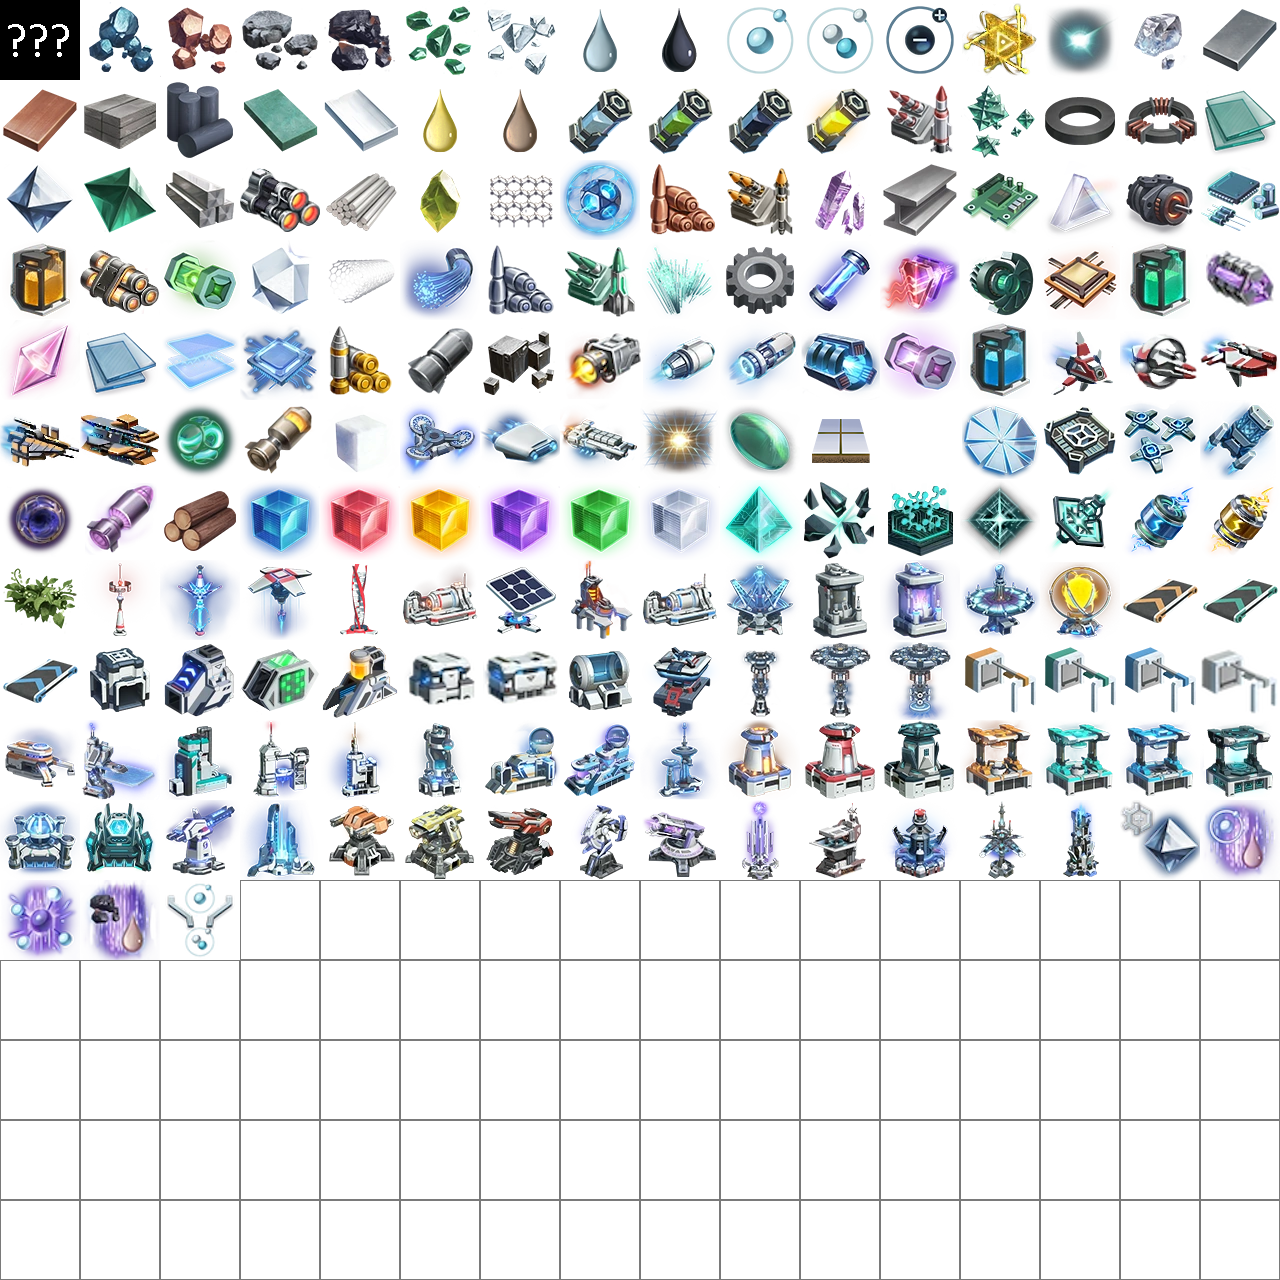
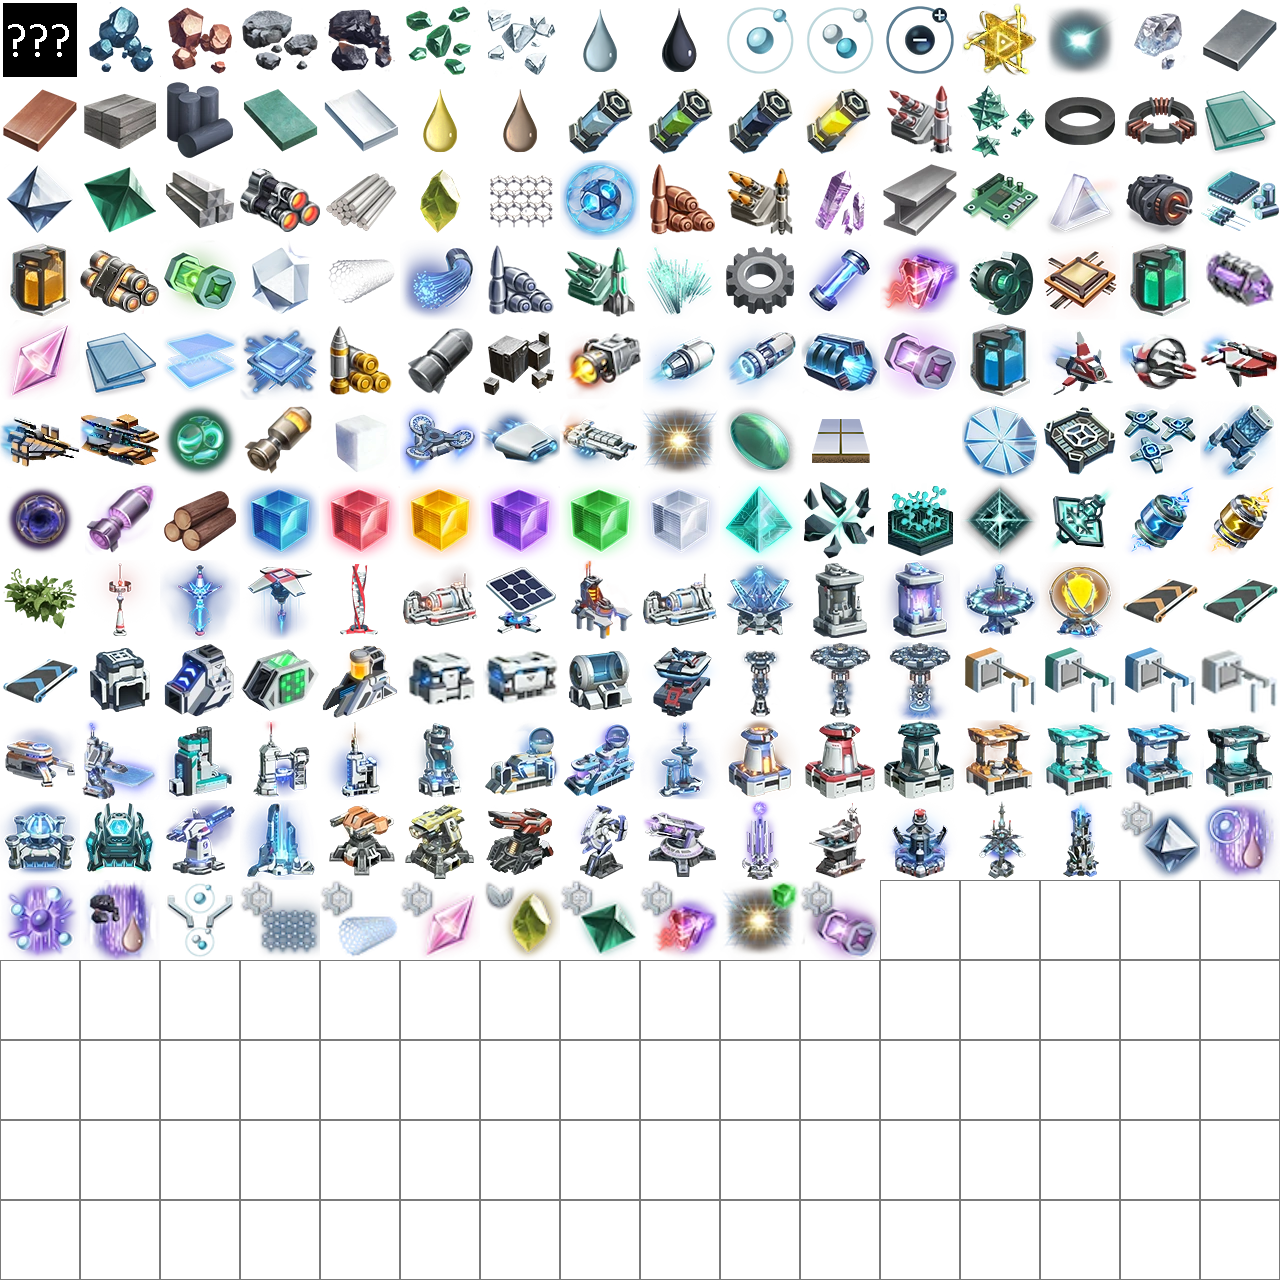
added advanced icones, speed proliferator and powerModifier

Changed region(s): [[0.1875, 0.6875, 0.6875, 0.75], [0.0, 0.0, 0.0625, 0.0625]]

diff --git a/data_base.cpp b/data_base.cpp
@@ -410,7 +410,7 @@ void DataBase::precomputeComboText() {
 
 			for (int j = 0; j < mc.modifiersId.size(); j++) {
 				const Modifier& modifier = getModifier(mc.modifiersId[j]);
-				recipe.modifierNames[i][j] = modifier.iconeString;
+				recipe.modifierNames[i][j] = modifier.iconeString+"##"+modifier.name;
 			}
 		}
 	}
@@ -486,6 +486,7 @@ Modifier::Modifier(const json11::Json& json, const std::map<std::string, int>& i
 	outputModifier = readRat(json, "outputModifier", "Modifier", 1);
 	idlePower = readRat(json, "idlePower", "Modifier", 0.0f);
 	workingPower = readRat(json, "workingPower", "Modifier", 0.0f);
+	powerModifier = readRat(json, "powerModifier", "Modifier", 1.0f);
 
 	consumables = readConsumable(json, itemIdMap);
 }

diff --git a/node.cpp b/node.cpp
@@ -254,6 +254,13 @@ void Node::ChangeState(const DataBase* dataBase, int stateChannel, int newState,
 		}
 		std::cout << "Output quantity modifier : " << modifier.outputModifier.to_double() << std::endl;
 	}
+	for (int j = 0; j < recipe.modifierCategoriesId.size(); j++) {
+		int modifierCategory = recipe.modifierCategoriesId[j];
+		int modifierId = dataBase->getModifierCategory(modifierCategory).modifiersId[state[j + 1]];
+		const Modifier& modifier = dataBase->getModifier(modifierId);
+
+		workingPower *= modifier.powerModifier;
+	}
 }
 
 int Node::GetId() const {

diff --git a/data_base.h b/data_base.h
@@ -41,6 +41,7 @@ struct Modifier {//3
 	Rat outputModifier = 1.0f;
 	Rat idlePower = 0.0f;
 	Rat workingPower = 0.0f;
+	Rat powerModifier = 1.0f;
 	std::vector<Consumable> consumables; //consumables ar items
 
 	Modifier(const json11::Json& json, const std::map<std::string, int>& itemIdMap);
